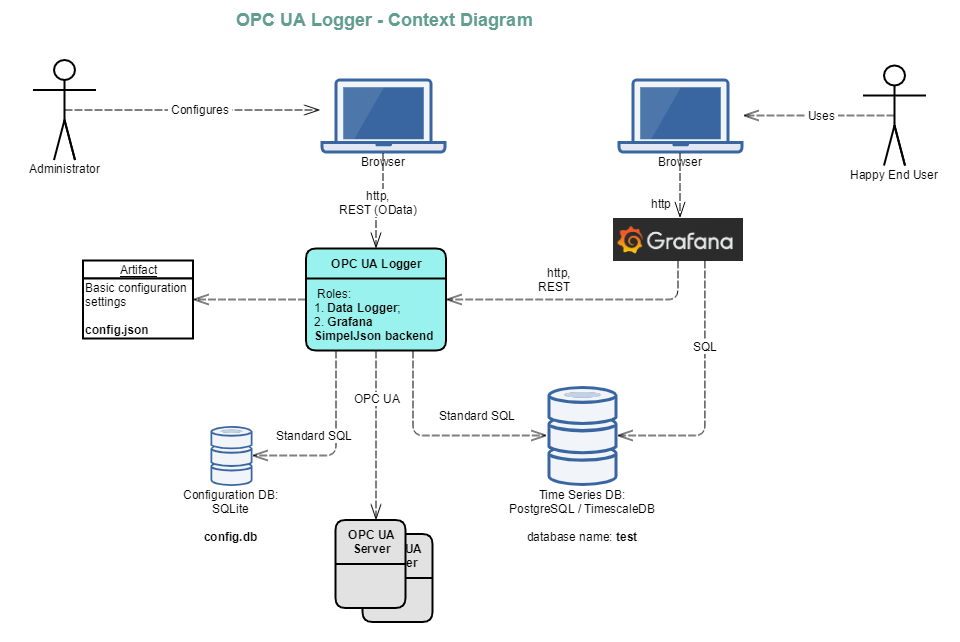
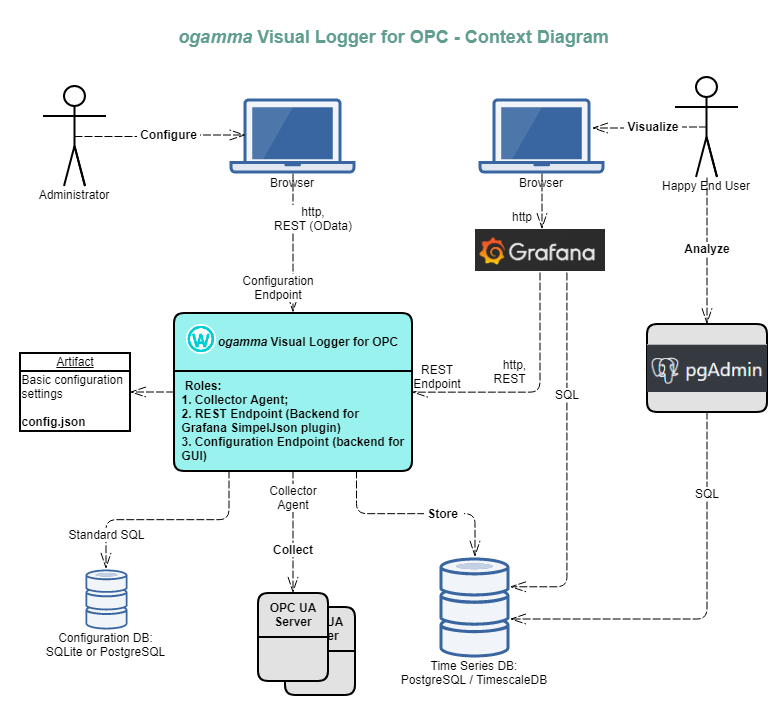
Updated Context Diagram and ReadMe.

diff --git a/README.md b/README.md
@@ -1,12 +1,13 @@
 # *ogamma* Visual Logger for OPC
 
-*ogamma* Visual Logger for OPC is an integration tool, which performs 2 tasks:
+*ogamma* Visual Logger for OPC is an integration tool to:
+* **Collect** data from OPC UA Servers;
+* **Store** that data in TimescaleDB (PostgreSQL database optimized to store time-series data). Regular version of PostgreSQL can be used too.
+* **Visualize** data using Grafana, acting as a REST back-end for its SimpleJson data source plugin. It can fetch real time or historical data directly from OPC UA Servers, or from PostgreSQL.
+* **Analyze** data using SQL queries.
+Each instance of *ogamma* Visual Logger can implement only one role or all of them.
 
-* Collects data from OPC UA Servers and stores it in TimescaleDB (PostgreSQL database optimized to store time-series data). Regular version of PostgreSQL can be used too.
-
-* Acts as a back-end for Grafana SimpleJson data source plugin. It can fetch data directly from OPC UA Servers, or from PostgreSQL. 
-
-Each instance of *ogamma* Visual Logger can implement both tasks, or only one of them.
+Multiple instances can run in parallel in different roles, making horizontal scaling easy.
 
 Note that to enable all the features third party components are required.  The easiest way to setup and run *ogamma* Visual Logger and dependency services is to use Dockaer images, which can be easily pulled and then started with single command ``docker-compose up``, by using of the ``docker-compose.yml`` file which is available at this repository: https://github.com/onewayautomation/ogamma-logger/blob/master/docker/docker-compose.yml
 
